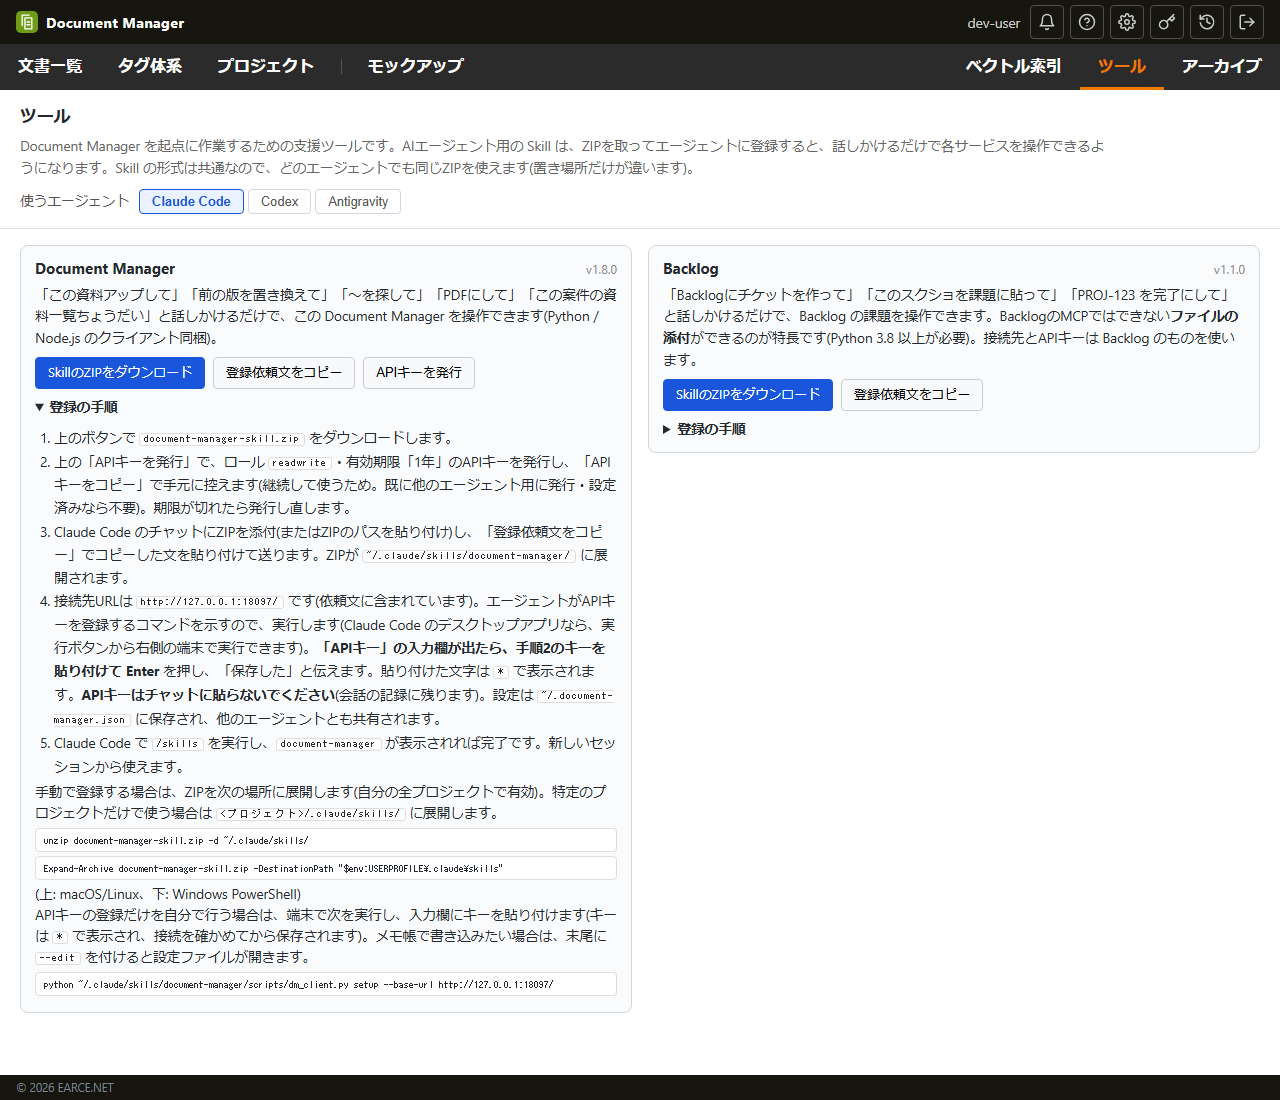
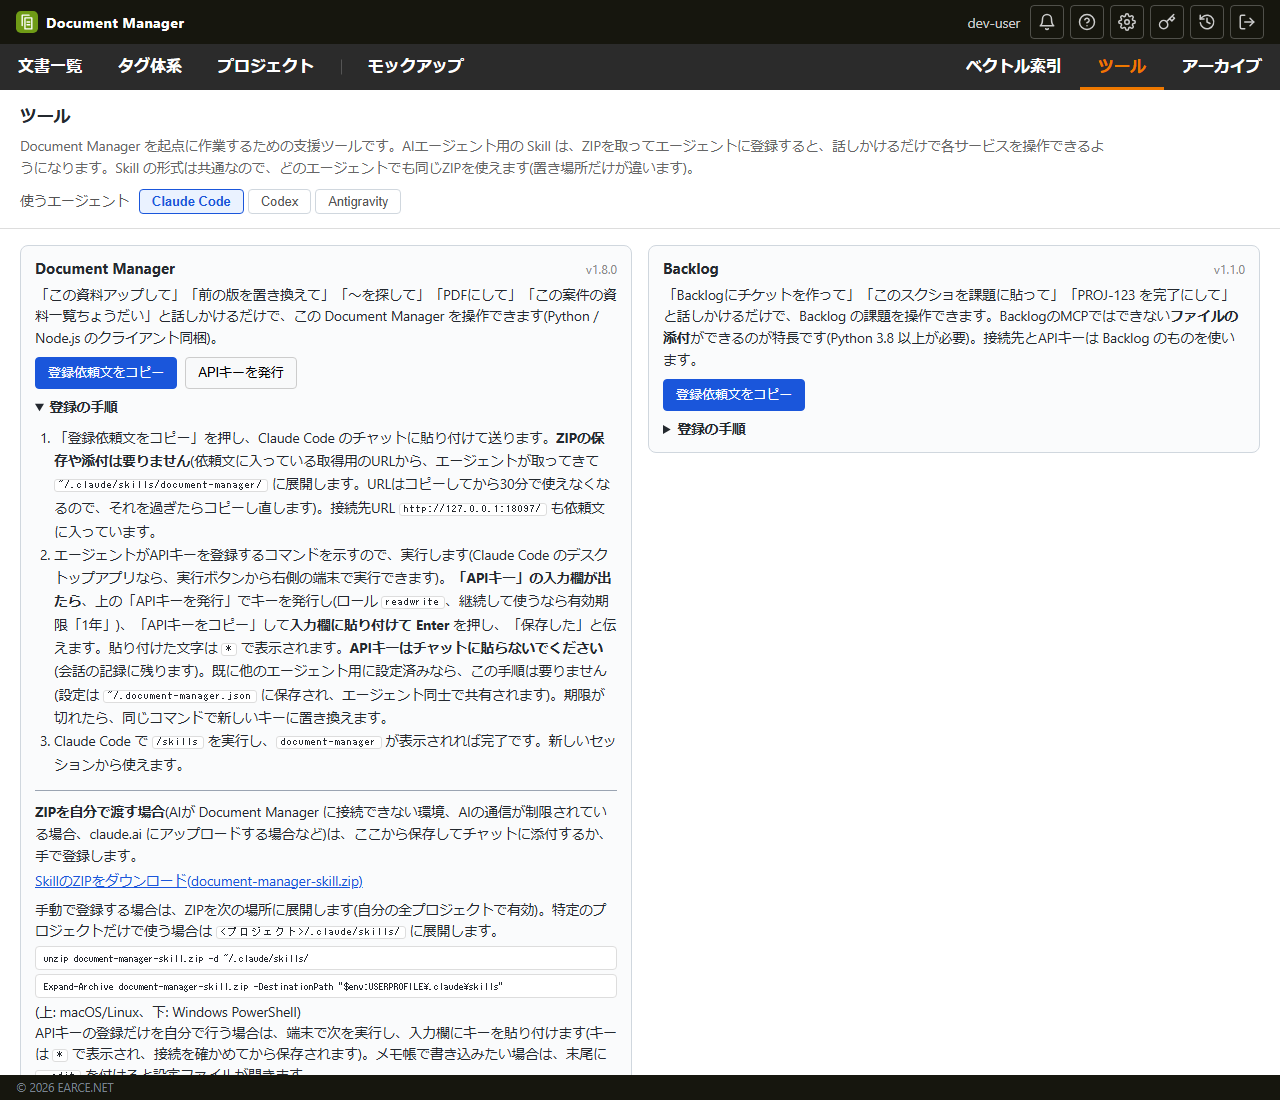
ツール: 手順を依頼文→キーの順にし、ZIPの保存は手動のやり方へ移して線で区切った

Changed region(s): [[0.0312, 0.3091, 0.5, 0.9891], [0.5312, 0.34, 0.75, 0.3709], [0.2812, 0.3091, 0.375, 0.34]]

diff --git a/app/static/index.html b/app/static/index.html
@@ -332,6 +332,10 @@
 	.toolCard .claudeSkillActions { display: flex; gap: 8px; margin: 8px 0 4px; flex-wrap: wrap; }
 	.toolCard .claudeSkillActions .modalButton { font-size: 0.95em; padding: 5px 12px; text-decoration: none; }
 	.toolSteps { margin-top: 8px; }
+	/* ふだんの手順(依頼文を貼るだけ)と、手動のやり方の境目。読み飛ばしてよい部分だと一目で分かるように線で区切る */
+	.toolManualRule { border: none; border-top: 1px solid #9aa4b2; margin: 14px 0 10px; }
+	.toolManualLead { line-height: 1.6; }
+	.toolDownloadLink { display: inline-block; margin: 4px 0 8px; color: #1a56db; }
 	.toolSteps summary { cursor: pointer; font-weight: 600; }
 	.toolCard ol { margin: 8px 0 4px; padding-left: 1.4em; line-height: 1.7; }
 	.toolCard code { background: #fff; border: 1px solid #ddd; border-radius: 3px; padding: 0 4px; word-break: break-all; }
@@ -1726,8 +1730,7 @@
 					<div class="toolCardHeader"><h3>Document Manager</h3><span class="toolVersion"></span></div>
 					<div class="toolCardIntro">「この資料アップして」「前の版を置き換えて」「〜を探して」「PDFにして」「この案件の資料一覧ちょうだい」と話しかけるだけで、この Document Manager を操作できます(Python / Node.js のクライアント同梱)。</div>
 					<div class="claudeSkillActions">
-						<a id="claudeSkillDownloadLink" class="modalButton save" href="./api/claude-skill.zip" download>SkillのZIPをダウンロード</a>
-						<button type="button" id="claudeSkillCopyPromptButton" class="modalButton">登録依頼文をコピー</button>
+						<button type="button" id="claudeSkillCopyPromptButton" class="modalButton save">登録依頼文をコピー</button>
 						<button type="button" id="toolsOpenApiKeyButton" class="modalButton">APIキーを発行</button>
 					</div>
 					<details class="toolSteps" open>
@@ -1740,8 +1743,7 @@
 					<div class="toolCardHeader"><h3>Backlog</h3><span class="toolVersion"></span></div>
 					<div class="toolCardIntro">「Backlogにチケットを作って」「このスクショを課題に貼って」「PROJ-123 を完了にして」と話しかけるだけで、Backlog の課題を操作できます。BacklogのMCPではできない<strong>ファイルの添付</strong>ができるのが特長です(Python 3.8 以上が必要)。接続先とAPIキーは Backlog のものを使います。</div>
 					<div class="claudeSkillActions">
-						<a id="backlogSkillDownloadLink" class="modalButton save" href="./api/related-skills/backlog.zip" download>SkillのZIPをダウンロード</a>
-						<button type="button" id="backlogSkillCopyPromptButton" class="modalButton">登録依頼文をコピー</button>
+						<button type="button" id="backlogSkillCopyPromptButton" class="modalButton save">登録依頼文をコピー</button>
 					</div>
 					<details class="toolSteps">
 						<summary>登録の手順</summary>
@@ -5296,12 +5298,14 @@ const renderSkillAgentGuide = () => {
 		tab.setAttribute("aria-selected", String(selected));
 	});
 	document.getElementById("claudeSkillSteps").innerHTML = `
-		<li>上の「APIキーを発行」で、ロール <code>readwrite</code>・有効期限「1年」のAPIキーを発行し、「APIキーをコピー」で手元に控えます(継続して使うため。既に他のエージェント用に発行・設定済みなら不要)。期限が切れたら発行し直します。</li>
-		<li>「登録依頼文をコピー」を押し、${escapeHtml(agent.label)} のチャットに貼り付けて送ります。<strong>ZIPの保存や添付は要りません</strong>(依頼文に入っている取得用のURLから、エージェントが取ってきて <code>${escapeHtml(agent.dir)}/document-manager/</code> に展開します。URLはコピーしてから30分で使えなくなるので、それを過ぎたらコピーし直します)。ZIPを自分で渡したい場合は「SkillのZIPをダウンロード」で保存し、チャットに添付します。</li>
-		<li>接続先URLは <code id="claudeSkillBaseUrl">${escapeHtml(claudeSkillBaseUrl)}</code> です(依頼文に含まれています)。エージェントがAPIキーを登録するコマンドを示すので、実行します(Claude Code のデスクトップアプリなら、実行ボタンから右側の端末で実行できます)。<strong>「APIキー」の入力欄が出たら、手順2のキーを貼り付けて Enter</strong> を押し、「保存した」と伝えます。貼り付けた文字は <code>*</code> で表示されます。<strong>APIキーはチャットに貼らないでください</strong>(会話の記録に残ります)。設定は <code>~/.document-manager.json</code> に保存され、他のエージェントとも共有されます。</li>
+		<li>「登録依頼文をコピー」を押し、${escapeHtml(agent.label)} のチャットに貼り付けて送ります。<strong>ZIPの保存や添付は要りません</strong>(依頼文に入っている取得用のURLから、エージェントが取ってきて <code>${escapeHtml(agent.dir)}/document-manager/</code> に展開します。URLはコピーしてから30分で使えなくなるので、それを過ぎたらコピーし直します)。接続先URL <code id="claudeSkillBaseUrl">${escapeHtml(claudeSkillBaseUrl)}</code> も依頼文に入っています。</li>
+		<li>エージェントがAPIキーを登録するコマンドを示すので、実行します(Claude Code のデスクトップアプリなら、実行ボタンから右側の端末で実行できます)。<strong>「APIキー」の入力欄が出たら</strong>、上の「APIキーを発行」でキーを発行し(ロール <code>readwrite</code>、継続して使うなら有効期限「1年」)、「APIキーをコピー」して<strong>入力欄に貼り付けて Enter</strong> を押し、「保存した」と伝えます。貼り付けた文字は <code>*</code> で表示されます。<strong>APIキーはチャットに貼らないでください</strong>(会話の記録に残ります)。既に他のエージェント用に設定済みなら、この手順は要りません(設定は <code>~/.document-manager.json</code> に保存され、エージェント同士で共有されます)。期限が切れたら、同じコマンドで新しいキーに置き換えます。</li>
 		<li>${agent.check}</li>
 	`;
 	document.getElementById("claudeSkillManual").innerHTML = `
+		<hr class="toolManualRule">
+		<div class="toolManualLead"><strong>ZIPを自分で渡す場合</strong>(AIが Document Manager に接続できない環境、AIの通信が制限されている場合、claude.ai にアップロードする場合など)は、ここから保存してチャットに添付するか、手で登録します。</div>
+		<a id="claudeSkillDownloadLink" class="toolDownloadLink" href="./api/claude-skill.zip" download>SkillのZIPをダウンロード(document-manager-skill.zip)</a>
 		<div>手動で登録する場合は、ZIPを次の場所に展開します(自分の全プロジェクトで有効)。特定のプロジェクトだけで使う場合は <code>&lt;プロジェクト&gt;/${escapeHtml(agent.projectDir)}/</code> に展開します。</div>
 		<pre>unzip document-manager-skill.zip -d ${escapeHtml(agent.dir)}/</pre>
 		<pre>Expand-Archive document-manager-skill.zip -DestinationPath "$env:USERPROFILE\\${escapeHtml(agent.winDir)}"</pre>
@@ -5328,11 +5332,13 @@ const buildBacklogSkillInstallPrompt = (link) => {
 const renderRelatedSkillGuide = () => {
 	const agent = SKILL_AGENTS[selectedSkillAgent];
 	document.getElementById("backlogSkillSteps").innerHTML = `
-		<li>Backlog の「個人設定 &gt; API」でAPIキーを発行し、手元に控えます(<strong>Document Manager のAPIキーとは別のもの</strong>です)。</li>
 		<li>「登録依頼文をコピー」を押し、${escapeHtml(agent.label)} のチャットに貼り付けて送ります。<strong>ZIPの保存や添付は要りません</strong>(エージェントが取得用のURLから取ってきて <code>${escapeHtml(agent.dir)}/backlog/</code> に展開します。URLはコピーしてから30分で使えなくなります)。</li>
-		<li>スペースのホスト名(例: <code>example.backlog.jp</code>)を聞かれたら答えます。エージェントがAPIキーを登録するコマンドを示すので、実行します。<strong>「APIキー」の入力欄が出たら、手順2のキーを貼り付けて Enter</strong> を押し、「保存した」と伝えます。<strong>APIキーはチャットに貼らないでください。</strong></li>
+		<li>スペースのホスト名(例: <code>example.backlog.jp</code>)を聞かれたら答えます。エージェントがAPIキーを登録するコマンドを示すので、実行します。<strong>「APIキー」の入力欄が出たら</strong>、Backlog の「個人設定 &gt; API」でキーを発行してコピーし(<strong>Document Manager のAPIキーとは別のもの</strong>です)、<strong>入力欄に貼り付けて Enter</strong> を押し、「保存した」と伝えます。<strong>APIキーはチャットに貼らないでください。</strong></li>
 	`;
 	document.getElementById("backlogSkillManual").innerHTML = `
+		<hr class="toolManualRule">
+		<div class="toolManualLead"><strong>ZIPを自分で渡す場合</strong>(AIが Document Manager に接続できない環境、AIの通信が制限されている場合、claude.ai にアップロードする場合など)は、ここから保存してチャットに添付するか、手で登録します。</div>
+		<a id="backlogSkillDownloadLink" class="toolDownloadLink" href="./api/related-skills/backlog.zip" download>SkillのZIPをダウンロード(backlog-skill.zip)</a>
 		<div>手動で登録する場合は、ZIPを次の場所に展開します。</div>
 		<pre>unzip backlog-skill.zip -d ${escapeHtml(agent.dir)}/</pre>
 		<pre>Expand-Archive backlog-skill.zip -DestinationPath "$env:USERPROFILE\\${escapeHtml(agent.winDir)}"</pre>
@@ -5364,13 +5370,20 @@ const issueSkillDownloadLink = async (skill) => {
 };
 
 // コピーするたびに新しいURLを発行する(押した時点から有効期限が始まる)
-document.getElementById("claudeSkillCopyPromptButton").addEventListener("click", async (ev) => {
-	const button = ev.currentTarget;
-	copyTextWithFeedback(buildClaudeSkillInstallPrompt(await issueSkillDownloadLink("document-manager")), button);
+const copySkillPrompt = async (button, skill, buildPrompt, stepsBox) => {
+	const link = await issueSkillDownloadLink(skill);
+	await copyTextWithFeedback(buildPrompt(link), button);
+	if (link == null) {
+		stepsBox.open = true;
+		alert("ZIPの取得用URLを発行できなかったため、ZIPを添付してもらう依頼文をコピーしました。"
+			+ "「登録の手順」の「SkillのZIPをダウンロード」から保存し、依頼文と一緒にチャットへ添付してください。");
+	}
+};
+document.getElementById("claudeSkillCopyPromptButton").addEventListener("click", (ev) => {
+	copySkillPrompt(ev.currentTarget, "document-manager", buildClaudeSkillInstallPrompt, document.querySelector("#toolCardDocumentManager .toolSteps"));
 });
-document.getElementById("backlogSkillCopyPromptButton").addEventListener("click", async (ev) => {
-	const button = ev.currentTarget;
-	copyTextWithFeedback(buildBacklogSkillInstallPrompt(await issueSkillDownloadLink("backlog")), button);
+document.getElementById("backlogSkillCopyPromptButton").addEventListener("click", (ev) => {
+	copySkillPrompt(ev.currentTarget, "backlog", buildBacklogSkillInstallPrompt, document.querySelector("#toolCardBacklog .toolSteps"));
 });
 
 // 配っているSkillの版を、カードの見出しの横に出す(手元のものが古くないかを見比べられるように)

diff --git a/test/api/skill-setup-guide.e2e.js b/test/api/skill-setup-guide.e2e.js
@@ -48,6 +48,10 @@ test.describe("ツールのページ: Skillの登録手順と配布(実ブラウ
 	test("手順には、入力欄にキーを貼ることと、チャットに貼らないことが書いてある", async ({page}) => {
 		const steps = page.locator("#claudeSkillSteps");
 		await expect(steps).toContainText("入力欄が出たら");
+		// 依頼文を貼るのが先。キーは入力欄が出てから発行し、そのまま貼る(手元に控えておく時間を作らない)
+		const items = await steps.locator("li").allTextContents();
+		expect(items[0]).toContain("登録依頼文をコピー");
+		expect(items[1]).toContain("APIキーを発行");
 		await expect(steps).toContainText("APIキーはチャットに貼らないでください");
 		// 自分で登録したい人向けのコマンドも出る(展開先に合わせたパス)
 		await expect(page.locator("#claudeSkillManual")).toContainText("~/.claude/skills/document-manager/scripts/dm_client.py setup --base-url");
@@ -55,6 +59,7 @@ test.describe("ツールのページ: Skillの登録手順と配布(実ブラウ
 
 	test("関連するSkillとして、BacklogのSkillをダウンロードできる", async ({page}) => {
 		await expect(page.locator("#toolCardBacklog")).toContainText("Backlog");
+		await page.locator("#toolCardBacklog .toolSteps summary").click();
 		const downloadPromise = page.waitForEvent("download");
 		await page.locator("#backlogSkillDownloadLink").click();
 		const download = await downloadPromise;
@@ -102,11 +107,29 @@ test.describe("ツールのページ: Skillの登録手順と配布(実ブラウ
 		expect(urlOf(second)).not.toBe(urlOf(first));
 	});
 
-	test("URLを発行できないときは、ZIPを添付してもらう依頼文に戻す", async ({page}) => {
+	test("URLを発行できないときは、ZIPを添付してもらう依頼文に戻し、ZIPの保存場所へ案内する", async ({page}) => {
 		await page.route("**/api/skills/*/download-link", (route) => route.fulfill({status: 500, json: {error: "x"}}));
-		const prompt = await copiedPrompt(page, "#claudeSkillCopyPromptButton");
-		expect(prompt).toContain("添付した document-manager-skill.zip を");
+		const dialogMessage = new Promise((resolve) => {
+			page.once("dialog", async (dialog) => {
+				resolve(dialog.message());
+				await dialog.accept();
+			});
+		});
+		const prompt = await copiedPrompt(page, "#backlogSkillCopyPromptButton");
+		expect(prompt).toContain("添付した backlog-skill.zip を");
 		expect(prompt).not.toContain("skill-downloads");
+		expect(await dialogMessage).toContain("SkillのZIPをダウンロード");
+		// 行き止まりにしない: ZIPの保存場所が開いて見えている
+		await expect(page.locator("#backlogSkillDownloadLink")).toBeVisible();
+	});
+
+	// ふだんの手順は「依頼文をコピーして貼る」だけ。ZIPの保存は手順の中の逃げ道として置く
+	test("カードの前面にはZIPのダウンロードを置かず、手順の中の「自分で渡す場合」に置く", async ({page}) => {
+		for (const card of ["#toolCardDocumentManager", "#toolCardBacklog"]) {
+			await expect(page.locator(`${card} .claudeSkillActions a[download]`)).toHaveCount(0);
+			await expect(page.locator(`${card} .toolSteps a[download]`)).toHaveCount(1);
+			await expect(page.locator(`${card} .toolSteps`)).toContainText("ZIPを自分で渡す場合");
+		}
 	});
 
 	// どのエージェント向けかは、上のSkill案内のタブで選ぶ(2か所で選ばせない)
